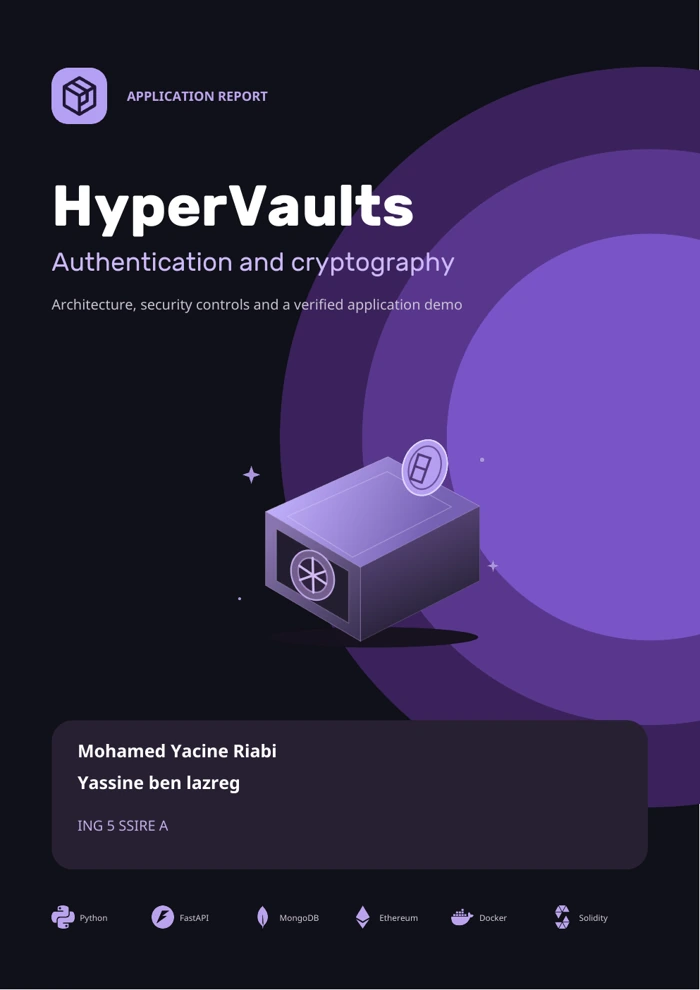
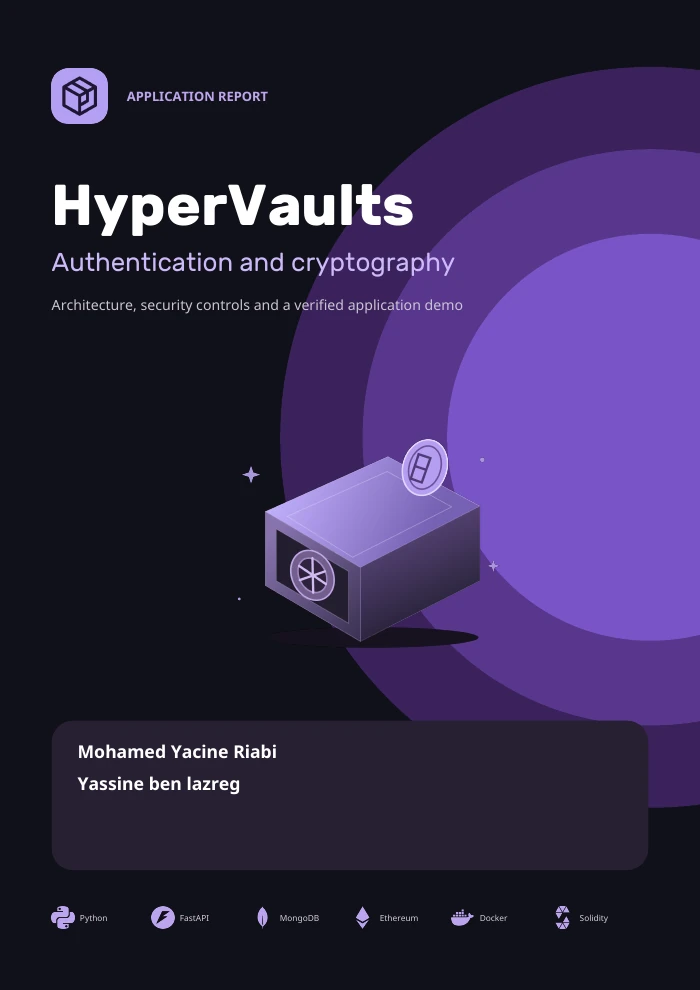
docs: remove class label from report cover

diff --git a/docs/report/build_report.py b/docs/report/build_report.py
@@ -316,9 +316,6 @@ class Report:
         c.setFillColor(colors.white)
         c.drawString(M + 22, 197, "Mohamed Yacine Riabi")
         c.drawString(M + 22, 170, "Yassine ben lazreg")
-        c.setFont("Body", 12)
-        c.setFillColor(colors.HexColor("#C4AFE9"))
-        c.drawString(M + 22, 135, "ING 5 SSIRE A")
         for i, name in enumerate(
             ("python", "fastapi", "mongodb", "ethereum", "docker", "solidity")
         ):

diff --git a/docs/report/README.md b/docs/report/README.md
@@ -2,8 +2,8 @@
 
 The report explains the actual HyperVaults architecture, website authentication,
 wallet linking, MFA, encrypted notes, authorization and contract safeguards. Its
-purple cover uses the site's artwork, the two authors and class, without a module
-name or cover date. Nine diagrams remain editable SVGs. Demo images are real
+purple cover uses the site's artwork and the two authors, without a class label,
+module name or cover date. Nine diagrams remain editable SVGs. Demo images are real
 browser captures; screenshots are never substituted with drawings or mockups.
 
 The published snapshot is available directly in the repository:
@@ -114,7 +114,7 @@ pdftoppm -r 120 -png output/pdf/hypervaults-report/HyperVaults_Report.pdf /tmp/h
 
 Inspect every rendered page for clipped text, unreadable labels, overlap and
 incorrect captions. The authoring checks cannot replace visual review. Keep the
-cover names exactly `Mohamed Yacine Riabi`, `Yassine ben lazreg`, `ING 5 SSIRE A`.
+cover names exactly `Mohamed Yacine Riabi` and `Yassine ben lazreg`.
 The PDF footer and page headers contain no report date or module name.
 
 Share the PDF and an assets archive containing the editable diagrams, original

diff --git a/docs/report/evidence/README.md b/docs/report/evidence/README.md
@@ -14,7 +14,7 @@ claim of production acceptance; subsequent code changes should be checked again.
 | [Dependency audit](dependency-audit.json) | 61 runtime packages, with no known advisories in that recorded scan. |
 | [Python coverage](coverage.txt) / [Solidity coverage](contract-coverage.txt) | Diagnostics, including the contract instrumentation warnings; coverage alone does not establish security. |
 | [Live Sepolia checks](live-sepolia.txt) | Website sign-in/out, security APIs and read-only contract state with three offers and covered reserves. |
-| [Report quality checks](report-qa.txt) | PDF structure, authors/class, visual review and the report checksum. |
+| [Report quality checks](report-qa.txt) | PDF structure, authors, visual review and the report checksum. |
 
 The numbered PNGs are all 18 original captures from the disposable browser demo.
 The test harness used a separate Anvil container, temporary database, real API,
